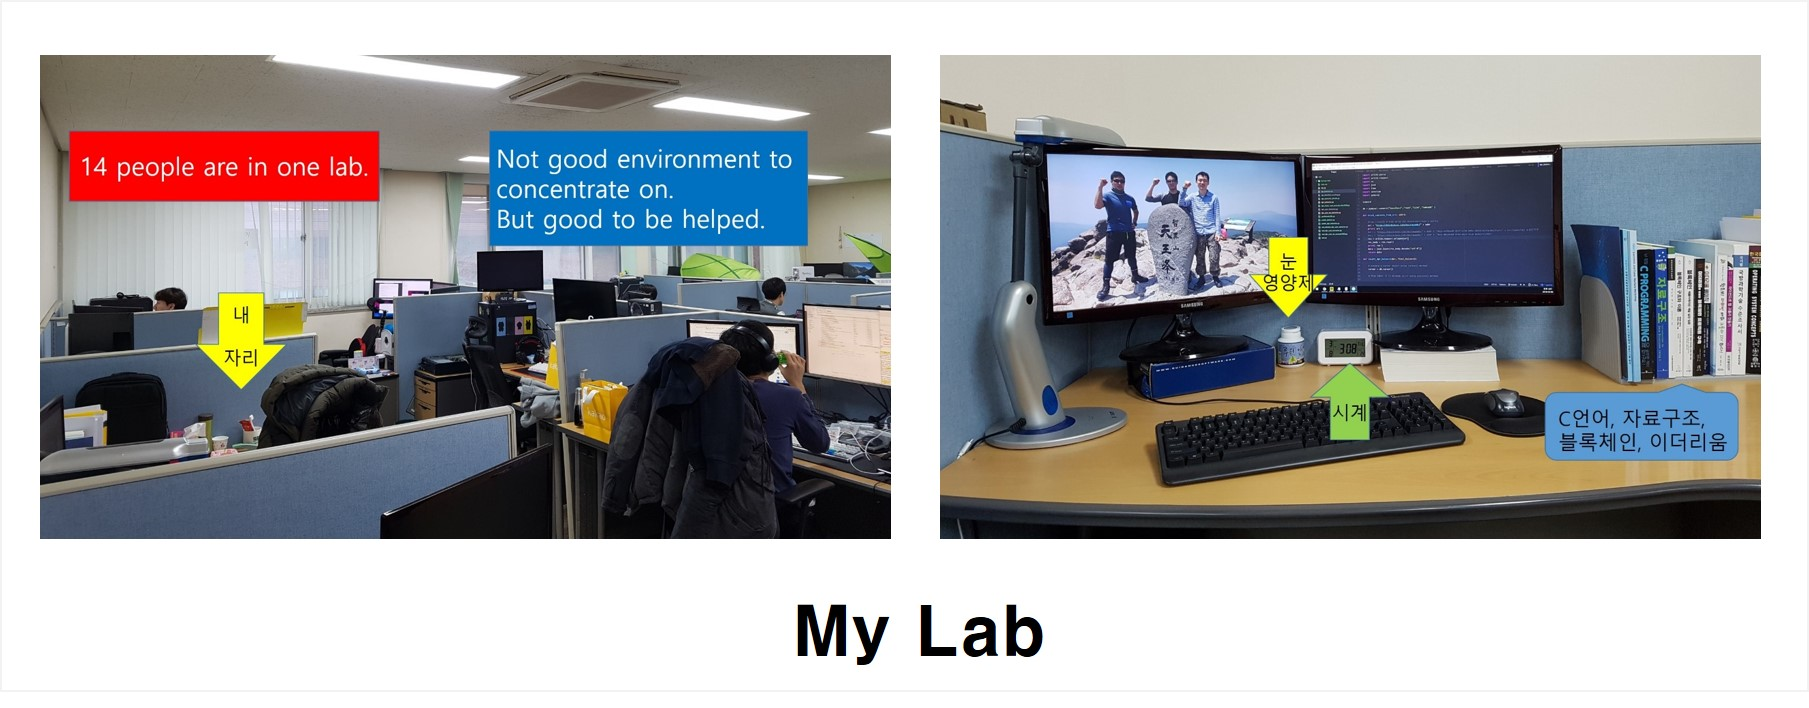
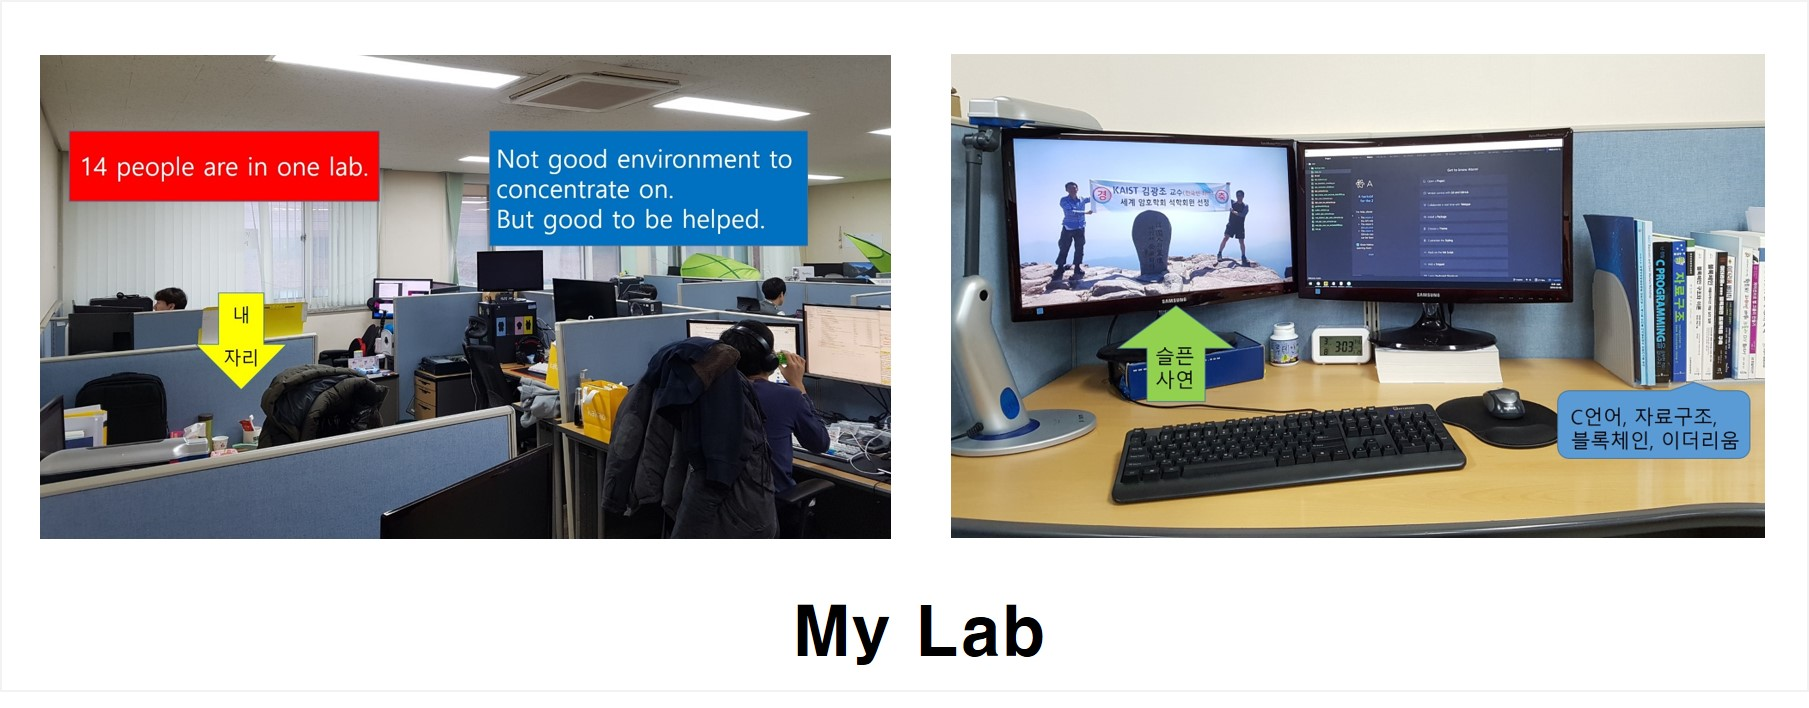
Lab.jpg modified

Changed region(s): [[0.4953, 0.0621, 0.9906, 0.7768]]

diff --git a/members/sejin.md b/members/sejin.md
@@ -74,7 +74,7 @@ Note:
 I am very familiar with Windows OS, but Linux is still unknown world.
 I know a little bit about c language, and nowadays I mainly use Python.
 In my lab, 14 people are there, but the lab is not a big space, so it’s not good environment to concentrate on research.
-But good place to be helped. It's a perfect lab for students who are not familiar with computer like me.
+But good place to be helped.
 In my desk, there are dual monitors. the monitor on the left shows a photo that has a sad story hidden.
 Last year, I took professor 광조 김‘s introductionory cryptography class.
 광조 김 suggested that if any student who goes to the top of 지리산 mountain,
